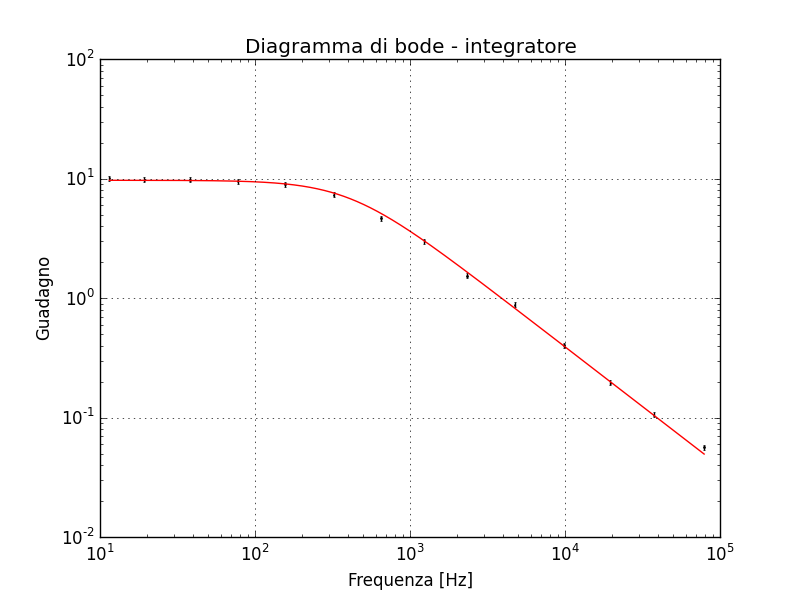
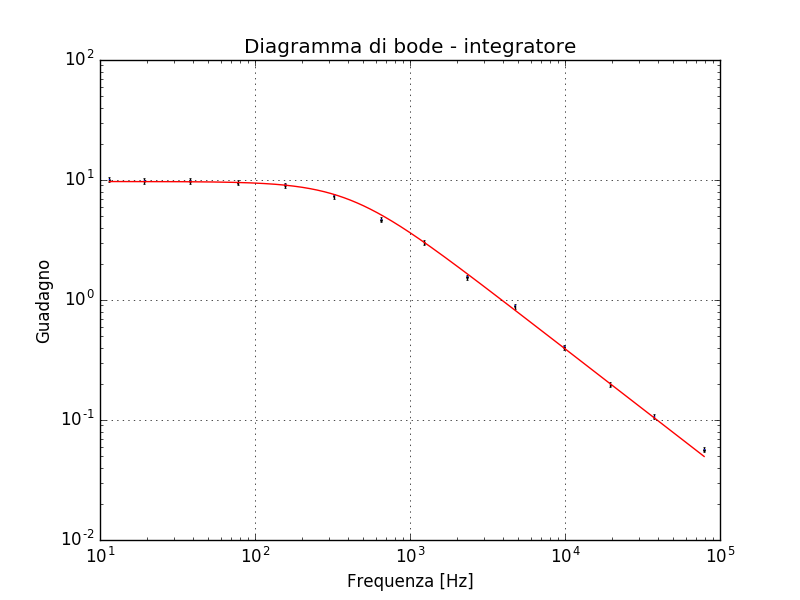
frequenze di taglio

diff --git a/Esercitazione6/relazione/Relazione6.tex b/Esercitazione6/relazione/Relazione6.tex
@@ -58,20 +58,32 @@ La strumentazione usata è quella presente sul banco di lavoro, più il suddetto
 
 \section{Circuito integratore}
 
+I valori dei componenti utilizzati nel montaggio del circuito sono:
+
+\begin{table}[h!]
+\centering
+\begin{tabular}{ccc}
+$R_1 = \unit{984 \pm 9}{ohm}$	&	$R_2 = \unit{9.95 \pm 0.09}{\kilo\ohm}$	&	$C = \unit{45.4 \pm 1.8}{\nano\farad}$
+\end{tabular}
+\end{table}
+
 \subsection{Risposta in frequenza}
 Si è misurata la risposta del circuito a un ingresso sinusoidale a varie frequenze. Si riportano i dati relativi in appendice in \tablename{\ref{tab:lowpass}}, e i grafici di seguito in \figurename{\ref{fig:lowamp}} e \figurename{\ref{fig:lowph}}.
 
 \begin{figure}[h!]
-	\centering
-	\includegraphics[width=0.65\textwidth]{../grafici/fit_module_low_pass.pdf}
-	\caption{Grafico del fit }
-	\label{fig:lowamp}
-\end{figure}
-\begin{figure}[h!]
-	\centering
-	\includegraphics[width=0.65\textwidth]{../grafici/fit_phase_low_pass.pdf}
-	\caption{Grafico del fit }
-	\label{fig:lowph}
+\centering
+	\begin{minipage}[h!]{0.48\textwidth}
+		\centering
+		\includegraphics[width=\textwidth]{../grafici/fit_module_low_pass.pdf}
+		\caption{Grafico del fit }
+		\label{fig:lowamp}
+	\end{minipage}
+	\begin{minipage}[h!]{0.48\textwidth}
+		\centering
+		\includegraphics[width=\textwidth]{../grafici/fit_phase_low_pass.pdf}
+		\caption{Grafico del fit }
+		\label{fig:lowph}
+	\end{minipage}
 \end{figure}
 
 Si riportano nella tabella di seguito i risultati del fit:
@@ -79,23 +91,21 @@ Si riportano nella tabella di seguito i risultati del fit:
 \begin{table}[h!]
 \centering
 \begin{tabular}{c|ccc}
-amplitude	&	$A_0 = 11.20 \pm 0.27$	&	$f_0 = \unit{388 \pm 13}{\hertz}$	&	$\chi^2/ndof = 41.7 / 12$\\
-phase		&	$\varphi_0 = \unit{-0.007 \pm 0.007}{\pi \rad}$	&	$f_0 = \unit{330 \pm 30}{\hertz}$	&	$\chi^2/ndof = 37.6 / 12$
+amplitude	&	$A_0 = 9.71 \pm 0.22$	&	$f_0 = \unit{404 \pm 12}{\hertz}$	&	$\chi^2/ndof = 15.6 / 12$\\
+phase		& &	$f_0 = \unit{350 \pm 40}{\hertz}$	&	$\chi^2/ndof = 10.7 / 12$
 \end{tabular}
 \end{table}
 
 \noindent Dove si sono usati i seguenti simboli:
 \begin{itemize}
 \item $A_0$ è il guadagno di centro banda, in questo caso è il guadagno a basse frequenze;
-\item $\varphi_0$ è lo sfasamento per frequenze prossime allo 0;
+%\item $\varphi_0$ è lo sfasamento per frequenze prossime allo 0;
 \item $f_0$ è la frequenza di taglio dell'integratore.
 \end{itemize}
 
-% i chiquadri non sono splendidi e le due misure della frequenza di taglio poco compatibili, c'è da giustificare un minimo
+Si nota dunque che le due misure della frequenza di taglio sono compatibili, a meno di poco più di $1\sigma$.
 
 \subsection{Risposta all'onda quadra}
-
-% c'è da dire cosa ci si aspetta per l'ampiezza dell'onda in uscita, ci sono un sacco di armoniche...
 
 Qualitativamente il comportamento osservato per la risposta del circuito all'onda quadra è esattamente quello di un integratore, almeno a $\unit{10}{\kilo\hertz}$, come si osserva dalla \figurename{\ref{fig:intsq}}.
 
@@ -114,11 +124,77 @@ Qualitativamente il comportamento osservato per la risposta del circuito all'ond
 
 Cambiando la frequenza del segnale di input si osserva che per frequenze maggiori il segnale viene ulteriormente attenuato, ma qualitativamente preserva il funzionamento come derivatore, mentre per frequenze più basse il condensatore ha il tempo di caricarsi e si può osservare una serie di esponenziali dovuti proprio a queste cariche e scariche, sempre in \figurename{\ref{fig:intsq}}.
 
+% c'è da dire cosa ci si aspetta per l'ampiezza dell'onda in uscita:
+% - slew rate * tempo a disposizione (semiperiodo)
+% - carica del condensatore(con il tau del passa basso)
+% mi serve il valore dello slew rate misurato ai punti precedenti
+
+\subsection{Confronto con i risultati attesi}
+
+Il valore della frequenza di taglio attesa è pari a $f_0 = \unit{352 \pm 11}{\hertz}$ ed è compatibile con quella misurata con il fit degli sfasamenti, ma anche con quanto ottenuto dal fit dei guadagni, a meno di $2\sigma$.
+
+Come risulta dai grafici mostrati in \figurename{\ref{fig:lowamp}} e  \figurename{\ref{fig:lowph}} il comportamento del circuito in esame è lo stesso di un passa-basso, con una funzione di trasferimento moltiplicata per un fattore $-R_2/R_1$, che quindi aumenta il guadagno massimo e inverte l'output, aggiungendo un $\pi$ alla fase di quest'ultimo.
+
+La resistenza $R_2$ serve a spostare il polo dallo 0, e di conseguenza limitare il guadagno massimo del circuito, che altrimenti andrebbe a coincidere con quello dell'operazionale, un valore non stabilmente fissato. Invece in questo modo il massimo valore del guadagno è pari proprio a  $R_2/R_1$, come scritto sopra.
+Idealmente è proprio per questo motivo che compare una frequenza di taglio: se l'amplificatore avesse un guadagno infinito il guadagno del circuito sarebbe una retta in assenza di $R_2$, per cui si comporerebbe da integratore a qualunque frequenza.
+
 \section{Circuito derivatore}
+
+I valori dei componenti usati nel montaggio del circuito coincidono con quelli al punto precedente, cioè quelli usati nel circuito integratore.
 
 \subsection{Risposta in frequenza}
 
+Come nel caso precedente si riportano i dati in appendice in \tablename{\ref{tab:highpass}} e i grafici di seguito, in \figurename{\ref{fig:highamp}} e \figurename{\ref{fig:highph}}.
+
+\begin{figure}[h!]
+\centering
+	\begin{minipage}[h!]{0.48\textwidth}
+		\centering
+		\includegraphics[width=\textwidth]{../grafici/fit_module_high_pass.pdf}
+		\caption{Grafico del fit }
+		\label{fig:highamp}
+	\end{minipage}
+	\begin{minipage}[h!]{0.48\textwidth}
+		\centering
+		\includegraphics[width=\textwidth]{../grafici/fit_phase_high_pass.pdf}
+		\caption{Grafico del fit }
+		\label{fig:highph}
+	\end{minipage}
+\end{figure}
+
+Si riportano nella tabella di seguito i risultati del fit:
+
+\begin{table}[h!]
+\centering
+\begin{tabular}{c|cccc}
+amplitude	&	$A_0 = 10.11 \pm 0.18$	&	$f_1 = \unit{3.64 \pm 0.08}{\kilo\hertz}$	&	$f_2 = \unit{189 \pm 6}{\kilo\hertz}$	&	$\chi^2/ndof = 8.6 / 16$\\
+phase		& &	$f_1 = \unit{2.72 \pm 0.2}{\kilo\hertz}$	&	$f_2 = \unit{118 \pm 14}{\kilo\hertz}$	&	$\chi^2/ndof = 14.5 / 14$
+\end{tabular}
+\end{table}
+
+\noindent Dove si è indicato con $f_1, f_2$ le due frequenze di taglio del circuito. La prima frequenza è relativa al derivatore, cioè quella fissata dal dimensionamento del circuito, mentre la seconda frequenza è quella relativa al taglio delle alte frequenze dovuto 
+
 \subsection{Risposta all'onda triangolare}
+Il circuito si comporta come un derivatore alla frequenza di $\sim \unit{100}{\hertz}$, come risulta dall'immagine riportata in \figurename{\ref{fig:trdev}}.
+
+\begin{figure}[h!]
+	\centering
+	\includegraphics[width=0.5\textwidth]{../oscilloscopio/trdev.jpg}
+	\caption{Risposta del circuito derivatore a un'onda triangolare in ingresso}
+	\label{fig:trdev}
+\end{figure}
+
+Variando la frequenza si ha che per frequenze molto basse il condensatore si carica in un tempo breve rispetto alla durata del periodo, per cui la risposta approssima sempre meglio un'onda quadra, mentre per frequenze troppo elevati il segnale viene mediato, e dunque nuovamente attenuato, come risulta dal grafico in \figurename{\ref{fig:highamp}}.
+
+\subsection{Confronto con i risultati attesi}
+
+Il valore atteso della frequenza di taglio è $f_1 = \unit{3.56 \pm 0.11}{\kilo\hertz}$, ed è perciò compatibile con quella ottenuta dal fit dei guadagni.
+
+La funzione della resistenza $R_1$ è quella di aggiungere un polo, in modo tale da stabilizzare il circuito alle alte frequenze, cioé fissare il valore del massimo guadagno a un valore di progetto determinato dal dimensionamento delle resistenze e del condensatore.
+
+Inoltre il circuito presenta un'altra frequenza di taglio, come si è notato ai punti precedenti. Questa non è prevista da un comportamento ideale del circuito in esame ()in cui l'operazionale abbia una resistenza di ingresso infinita e una di uscita nulla), ma tenendo di conto il comportamento reale dell'operazionale anche la seconda frequenza di taglio è spiegata. Il motivo è il condensatore presente nell'operazionale, lo stesso che porta a uno slew rate finito.
+
+Anche in questo caso il guadagno massimo del circuito è moltiplicato per un valore $-R_2/R_1$, ma stavolta è ottenuto per alte frequenze, o meglio in una certa banda, prima che il segnale venga di nuovo attenuato.
 
 \pagebreak
 \section{Appendice: Dati}
@@ -136,7 +212,7 @@ Si riportano qui le tabelle di dati usati per i fit e i grafici.
 	\centering
 	\resizebox{0.7\textwidth}{!}{
 	\input{../tabelle/tab_high_pass.txt}}
-	\captionof{table}{Dati relativi al circuito integratore}
+	\captionof{table}{Dati relativi al circuito derivatore}
 	\label{tab:highpass}
 \end{figure}
 

diff --git a/Esercitazione6/Esercitazione6.py b/Esercitazione6/Esercitazione6.py
@@ -55,7 +55,7 @@ Ylab="Guadagno"
 tab=["Frequenza [Hz]","$V_{OUT}$ [$V$]"]
 xlimp=[100,110]
 
-fit(dir,file,unit,f,p0,titolo,Xlab,Ylab,XYfun,table=True,tab=tab, Xscale="log",Yscale="log",xlimp=xlimp,out=True)
+#fit(dir,file,unit,f,p0,titolo,Xlab,Ylab,XYfun,table=True,tab=tab, Xscale="log",Yscale="log",xlimp=xlimp,out=True)
 
 ###########################################################################
 
@@ -81,7 +81,7 @@ Ylab="Guadagno $A_v$ [dB]"
 
 tab=["Frequenza [Hz]","$V_{OUT}$ [$V$]"]
 
-fit(dir,file,unit,f,p0,titolo,Xlab,Ylab,XYfun,xlimp=[98,101],fig=fig)
+#fit(dir,file,unit,f,p0,titolo,Xlab,Ylab,XYfun,xlimp=[98,101],fig=fig)
 
 ###########################################################################
 
@@ -107,7 +107,7 @@ Ylab="Guadagno $A_v$ [dB]"
 
 tab=["Frequenza [Hz]","$V_{OUT}$ [$V$]"]
 
-fit(dir,file,unit,f,p0,titolo,Xlab,Ylab,XYfun,xlimp=[99,102],fig=fig)
+#fit(dir,file,unit,f,p0,titolo,Xlab,Ylab,XYfun,xlimp=[99,102],fig=fig)
 
 ###########################################################################
 
@@ -159,7 +159,7 @@ Ylab="Guadagno"
 
 tab=["Frequenza [Hz]","Sfasamento [s]","$V_{OUT}$ [$V$]","$V_{IN}$ [$V$]"]
 
-#fit(dir,file,unit,f,p0,titolo,Xlab,Ylab,XYfun,table=True,tab=tab, Xscale="log",Yscale="log",fig=fig)
+fit(dir,file,unit,f,p0,titolo,Xlab,Ylab,XYfun,table=True,tab=tab, Xscale="log",Yscale="log",fig=fig)
 
 ###########################################################################
 
@@ -168,13 +168,12 @@ tab=["Frequenza [Hz]","Sfasamento [s]","$V_{OUT}$ [$V$]","$V_{IN}$ [$V$]"]
 file="low_pass"
 fig = "phase_low_pass"
 def f(x, a):
-    return arctan(x/a)
-
+    return arctan(x/a) + pi
 
 p0=[404]
 
 def XYfun(a):
-    return a[0], 2*pi*(a[1]*a[0]-0.5)
+    return a[0], 2*pi*a[1]*a[0]
 
 unit=["tempo_osc","volt_osc_nocal","volt_osc","volt_osc"]
 
@@ -182,7 +181,7 @@ titolo="Diagramma di bode - integratore"
 Xlab="Frequenza [Hz]"
 Ylab="Fase [rad]"
 
-#fit(dir,file,unit,f,p0,titolo,Xlab,Ylab,XYfun, Xscale="log",fig=fig)
+fit(dir,file,unit,f,p0,titolo,Xlab,Ylab,XYfun, Xscale="log",fig=fig)
 
 ###########################################################################
 
@@ -206,7 +205,7 @@ Ylab="Guadagno"
 
 tab=["Frequenza [Hz]","$V_{IN}$ [$V$]","$V_{OUT}$ [$V$]","Sfasamento [s]"]
 
-#fit(dir,file,unit,f,p0,titolo,Xlab,Ylab,XYfun,table=True,tab=tab, Xscale="log",Yscale="log",fig=fig)
+fit(dir,file,unit,f,p0,titolo,Xlab,Ylab,XYfun,table=True,tab=tab, Xscale="log",Yscale="log",fig=fig)
 
 ###########################################################################
 
@@ -215,12 +214,12 @@ tab=["Frequenza [Hz]","$V_{IN}$ [$V$]","$V_{OUT}$ [$V$]","Sfasamento [s]"]
 file="high_pass_phase"
 fig="phase_high_pass"
 def f(x, a, b):
-    return (-arctan(a/x)-arctan(b/x)+pi/2)
+    return (-arctan(a/x)-arctan(b/x)+pi/2) + pi
 
 p0=[3.56e+03, 2e+05]
 
 def XYfun(a):
-    return a[0], 2*pi*(a[3]*a[0]-1/2)
+    return a[0], 2*pi*a[3]*a[0]
 
 unit=["tempo_osc","volt_osc","volt_osc","volt_osc_nocal"]
 
@@ -228,6 +227,6 @@ titolo="Diagramma di bode - derivatore"
 Xlab="Frequenza [Hz]"
 Ylab="Fase [rad]"
 
-#fit(dir,file,unit,f,p0,titolo,Xlab,Ylab,XYfun, Xscale="log", fig=fig,out=True)
+fit(dir,file,unit,f,p0,titolo,Xlab,Ylab,XYfun, Xscale="log", fig=fig,out=True)
 
 ###########################################################################

diff --git a/Esercitazione6/conti.py b/Esercitazione6/conti.py
@@ -1,0 +1,14 @@
+from analyzer import *
+from uncertainties import *
+
+R1 = ufloat(984, mme(984, 'ohm'))
+R2 = ufloat(9.95e3, mme(9.95e3, 'ohm'))
+C = ufloat(45.4e-9, sqrt(45.4*4/100 + 0.3**2)*1e-9)
+
+f1 = (2*pi*C*R2)**(-1)
+f2 = (2*pi*C*R1)**(-1)
+
+print("\nR1 =", R1,"\nR2 =", R2,"\nC =", C)
+print("\nfrequenza di taglio integratore:", f1)
+print("frequenza di taglio derivatore:", f2) 
+print("\n")
